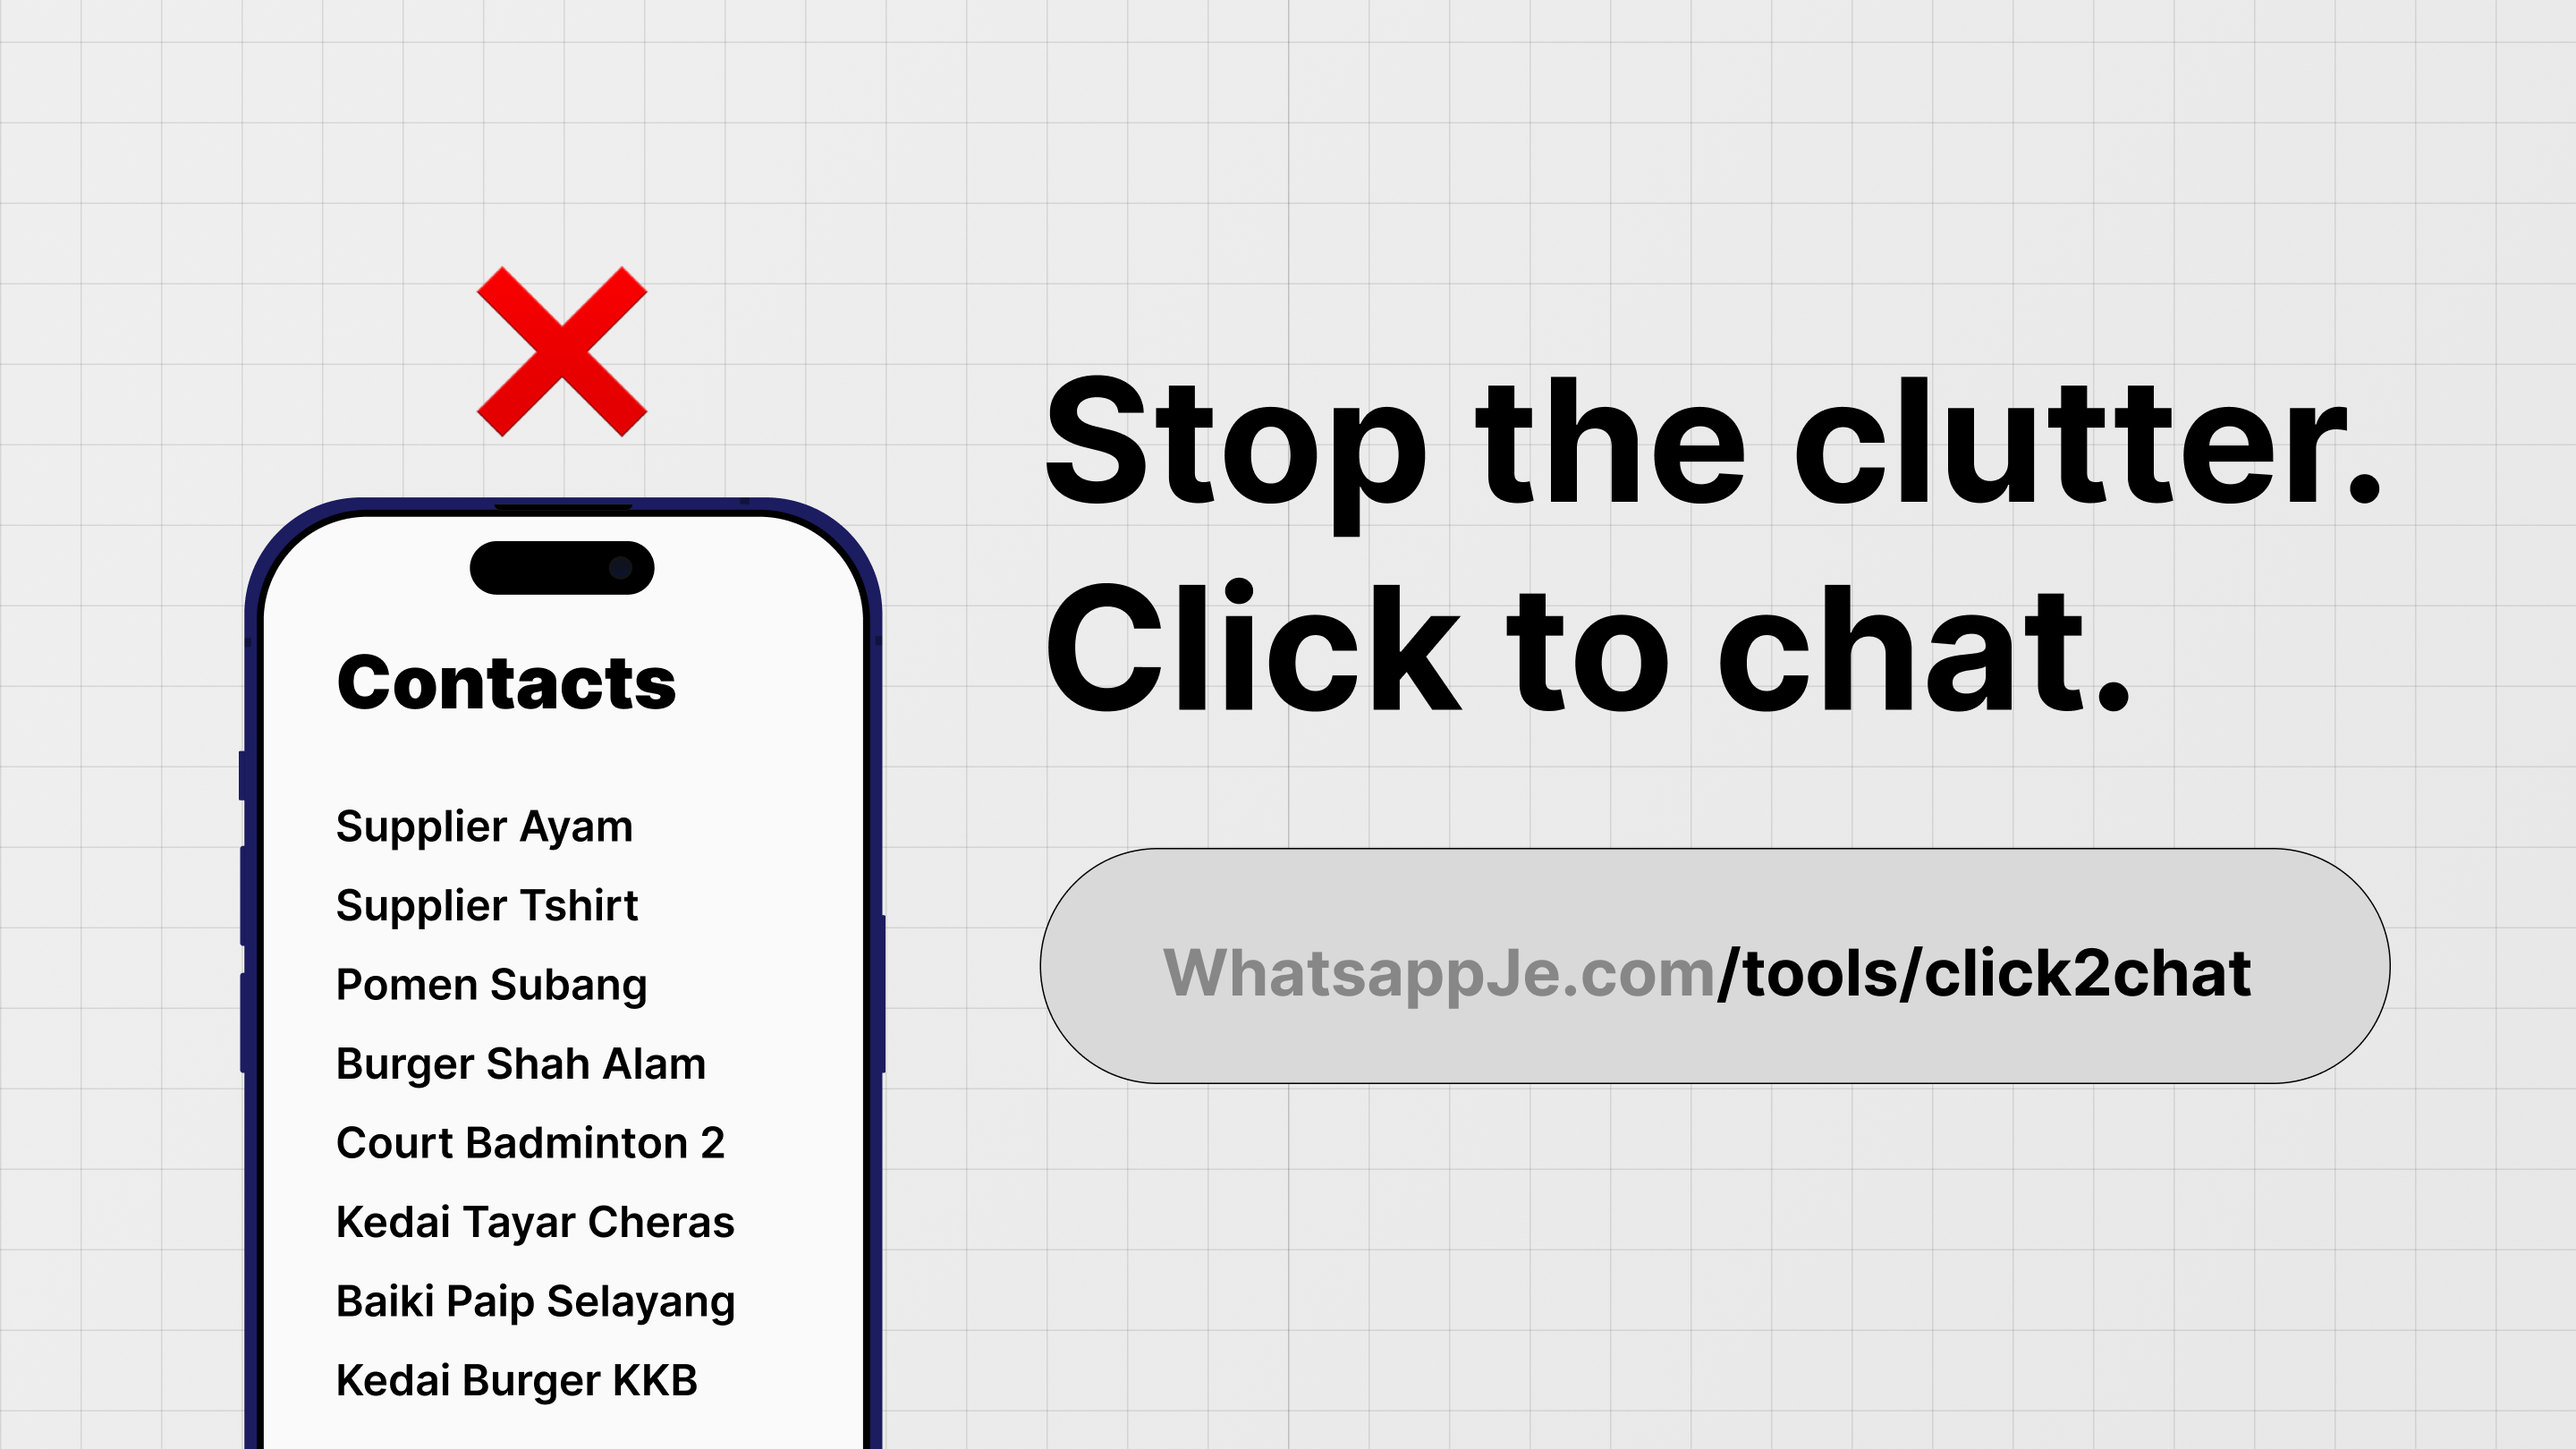
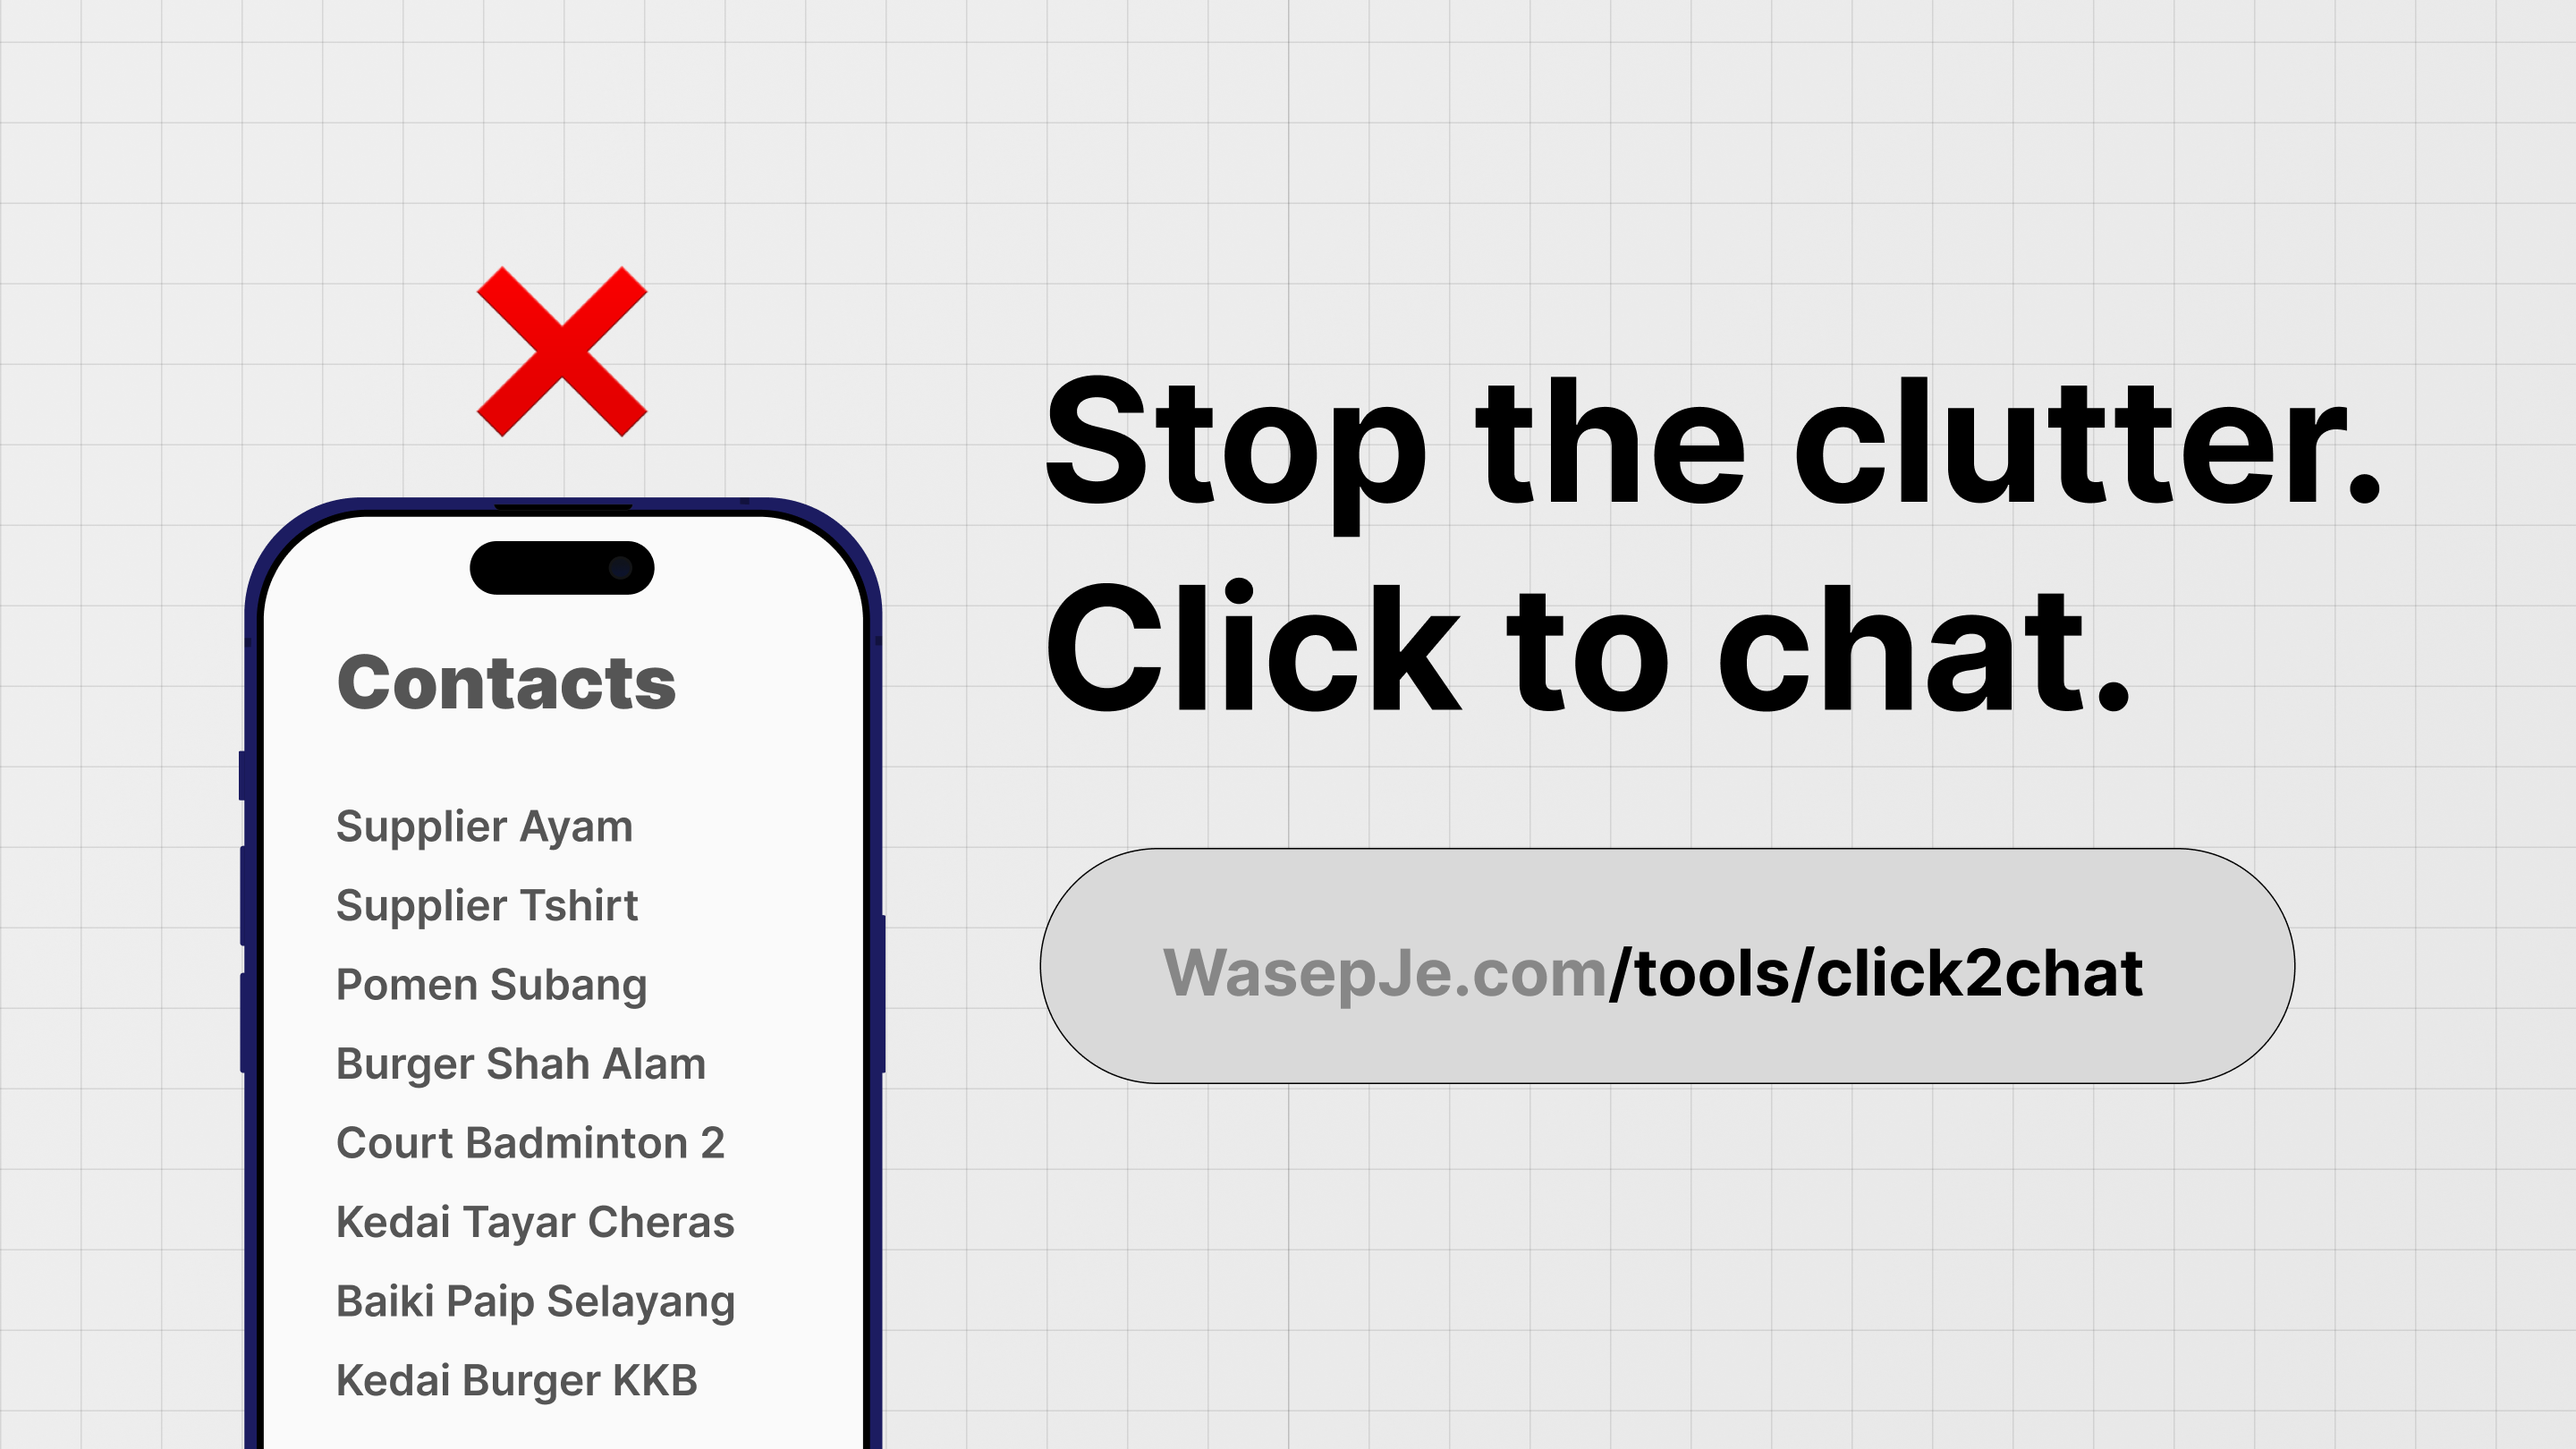
rename to wasepje

diff --git a/src/components/molecule/SEOHead.tsx b/src/components/molecule/SEOHead.tsx
@@ -20,19 +20,19 @@ function SEOHead({
 
       {/* <!-- Facebook Meta Tags --> */}
       <meta property="og:site_name" content={title} />
-      <meta property="og:url" content={`https://whatsappje.com${path}`} />
+      <meta property="og:url" content={`https://wasepje.com${path}`} />
       <meta property="og:type" content="website" />
       <meta property="og:title" content={title} />
       <meta property="og:description" content={description} />
-      <meta property="og:image" content={`https://whatsappje.com${ogPath}`} />
+      <meta property="og:image" content={`https://wasepje.com${ogPath}`} />
 
       {/* <!-- Twitter Meta Tags --> */}
       <meta name="twitter:card" content="summary_large_image" />
-      <meta property="twitter:domain" content="whatsappje.com" />
-      <meta property="twitter:url" content={`https://whatsappje.com${path}`} />
+      <meta property="twitter:domain" content="wasepje.com" />
+      <meta property="twitter:url" content={`https://wasepje.com${path}`} />
       <meta name="twitter:title" content={title} />
       <meta name="twitter:description" content={description} />
-      <meta name="twitter:image" content={`https://whatsappje.com${ogPath}`} />
+      <meta name="twitter:image" content={`https://wasepje.com${ogPath}`} />
     </Head>
   );
 }

diff --git a/src/pages/index.tsx b/src/pages/index.tsx
@@ -9,7 +9,7 @@ export default function Example() {
   return (
     <div>
       <SEOHead
-        title="WhatsApp Link Rotator | WhatsappJe.com"
+        title="WhatsApp Link Rotator | WasepJe.com"
         description="Open-Source WhatsApp Link Rotator built with Next.js, TailwindCSS, tRPC, shadcn/ui."
         path="/"
         ogPath="/og.png"
@@ -49,7 +49,7 @@ export default function Example() {
         <iframe
           className="mx-auto mt-2 h-[360px] max-h-[480px] w-full max-w-[853.33px] object-cover px-4  sm:h-[480px] "
           src="https://www.youtube.com/embed/pJYsyMvQy74?si=Jpnn1jt2Vs6QT1e5"
-          title="WhatsappJe.com video guide"
+          title="WasepJe.com video guide"
           allowFullScreen
         />
       </div>

diff --git a/src/pages/tools/click2chat.tsx b/src/pages/tools/click2chat.tsx
@@ -27,8 +27,8 @@ function Click2Chat() {
   return (
     <div className="flex h-[100dvh] flex-col">
       <SEOHead
-        title="Click to Chat by WhatsappJe.com"
-        description="Stop cluttering your contact list. Click to WhatsApp temporary contacts"
+        title="Click to Chat by WasepJe.com"
+        description="Stop cluttering your contact list. Click to WhatsApp temporary contacts."
         path="/tools/click2chat"
         ogPath="/click2chat.png"
       />

diff --git a/src/components/molecule/Header.tsx b/src/components/molecule/Header.tsx
@@ -13,9 +13,9 @@ function Header() {
             height={40}
             className="h-10 w-10"
             src="/logo.png"
-            alt="whatsappje.com logo"
+            alt="wasepje.com logo"
           />
-          <p className="font-bold">WhatsappJe.com</p>
+          <p className="font-bold">WasepJe.com</p>
         </Link>
         <UserButton showName afterSignOutUrl="/" />
       </div>

diff --git a/src/components/molecule/PublicHeader.tsx b/src/components/molecule/PublicHeader.tsx
@@ -19,9 +19,9 @@ function PublicHeader() {
               height={40}
               className="h-10 w-10"
               src="/logo.png"
-              alt="whatsappje.com logo"
+              alt="wasepje.com logo"
             />
-            <p className="font-bold">WhatsappJe.com</p>
+            <p className="font-bold">WasepJe.com</p>
           </Link>
         </div>
 

diff --git a/src/pages/dashboard/index.tsx b/src/pages/dashboard/index.tsx
@@ -105,7 +105,7 @@ export default function Dashboard() {
   return (
     <main>
       <SEOHead
-        title="Dashboard | WhatsappJe.com"
+        title="Dashboard | WasepJe.com"
         description="Open-Source WhatsApp Link Rotator built with Next.js, TailwindCSS, tRPC, shadcn/ui."
         path="/"
         ogPath="/og.png"

diff --git a/src/pages/dashboard/[id].tsx b/src/pages/dashboard/[id].tsx
@@ -80,7 +80,7 @@ function EditLink() {
   return (
     <main>
       <SEOHead
-        title="Edit Link | WhatsappJe.com"
+        title="Edit Link | WasepJe.com"
         description="Open-Source WhatsApp Link Rotator built with Next.js, TailwindCSS, tRPC, shadcn/ui."
         path="/"
         ogPath="/og.png"

diff --git a/README.md b/README.md
@@ -6,7 +6,7 @@
 <br/>
 <br/>
 <img src="./public/logo.png" alt="logo" width="80px"/>
-<h3 align="center">WhatsappJe.com</h3>
+<h3 align="center">WasepJe.com</h3>
 
 Open-source WhatsApp Link Rotator, a wasap.my alternative.
 
